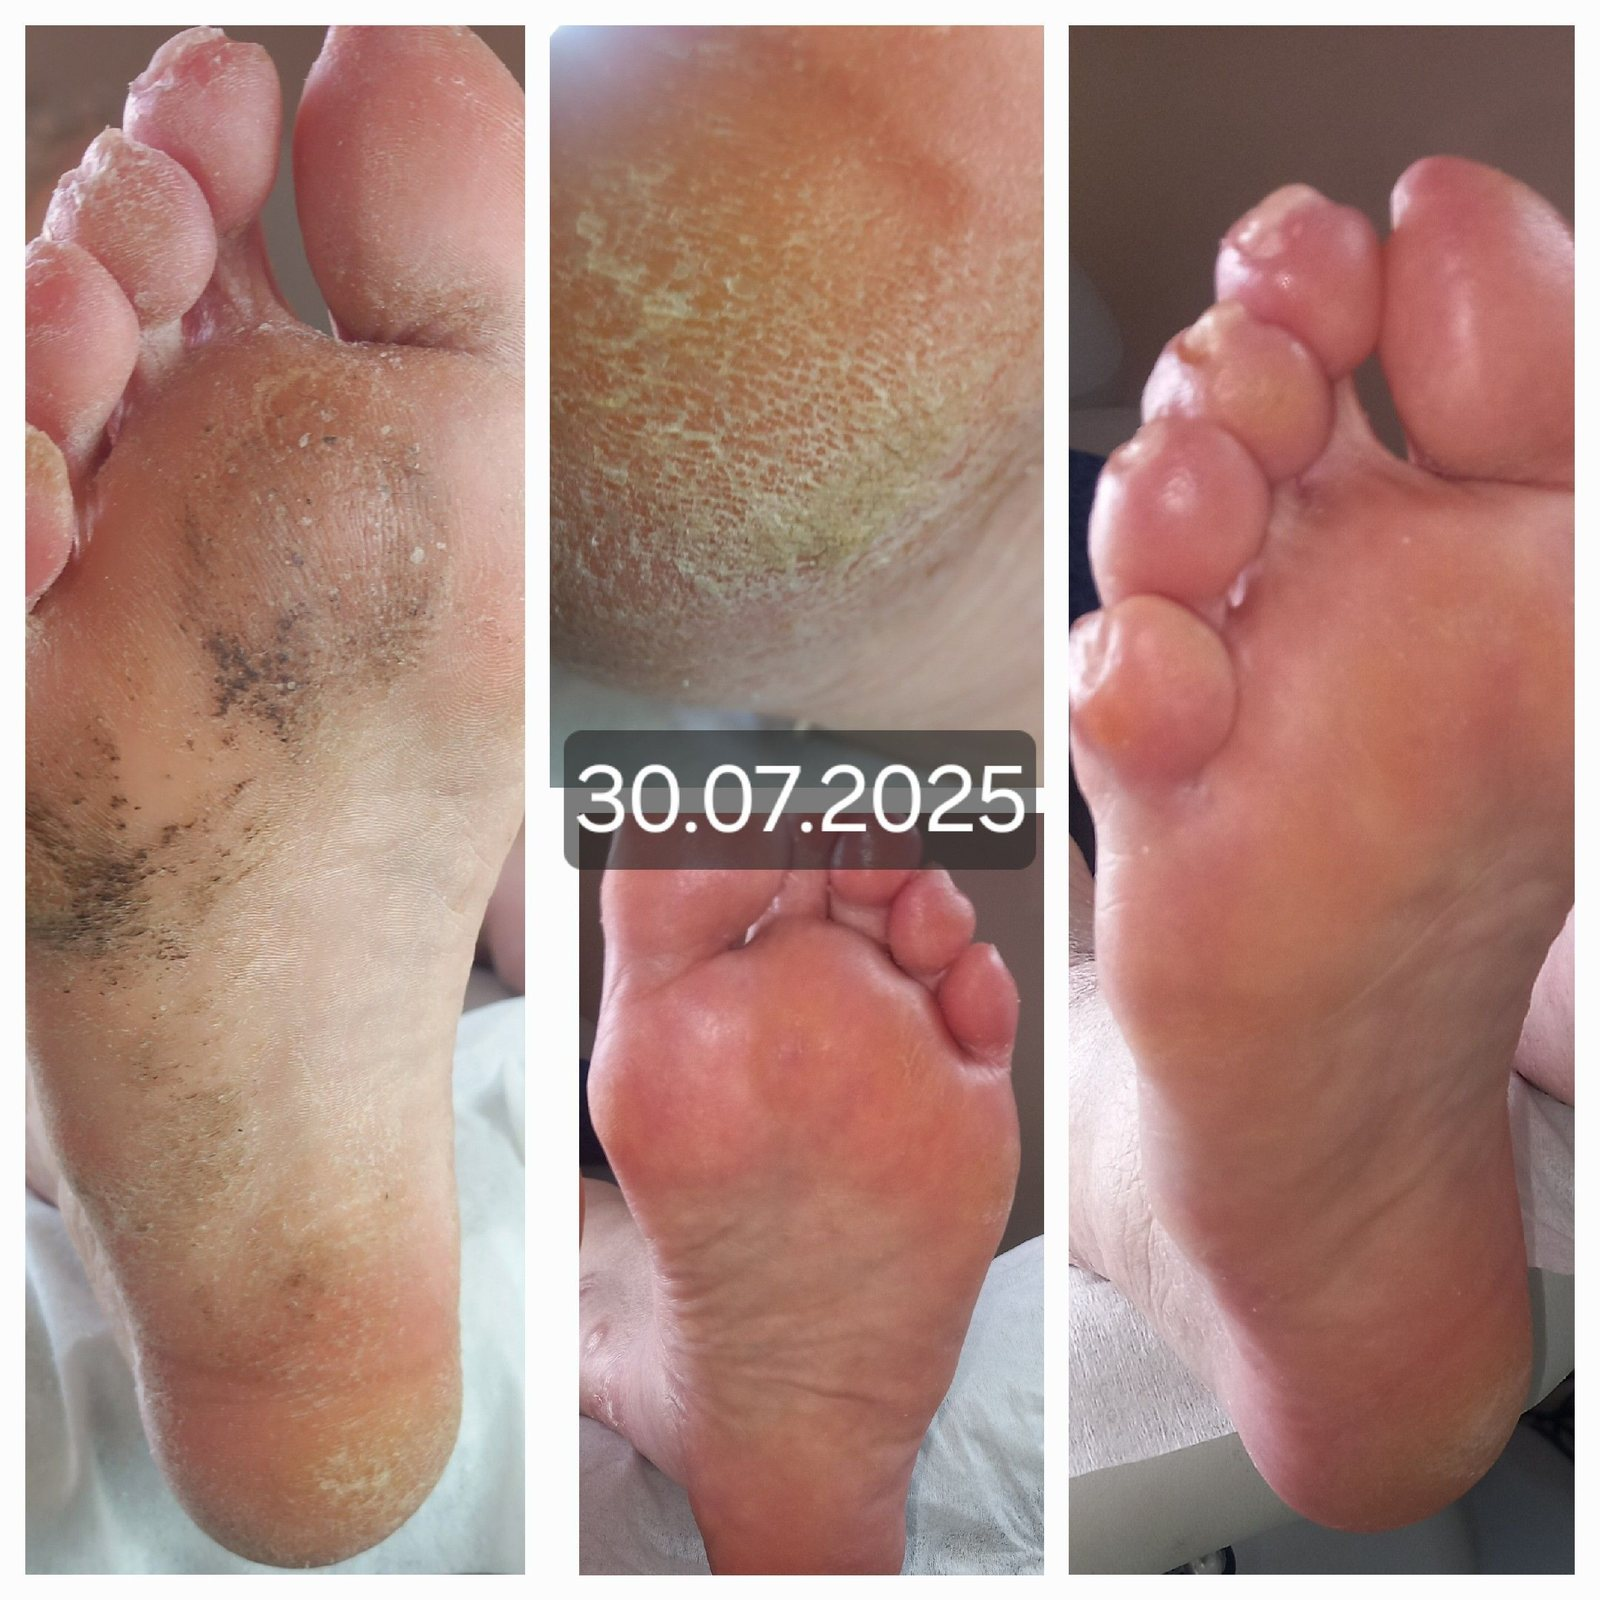
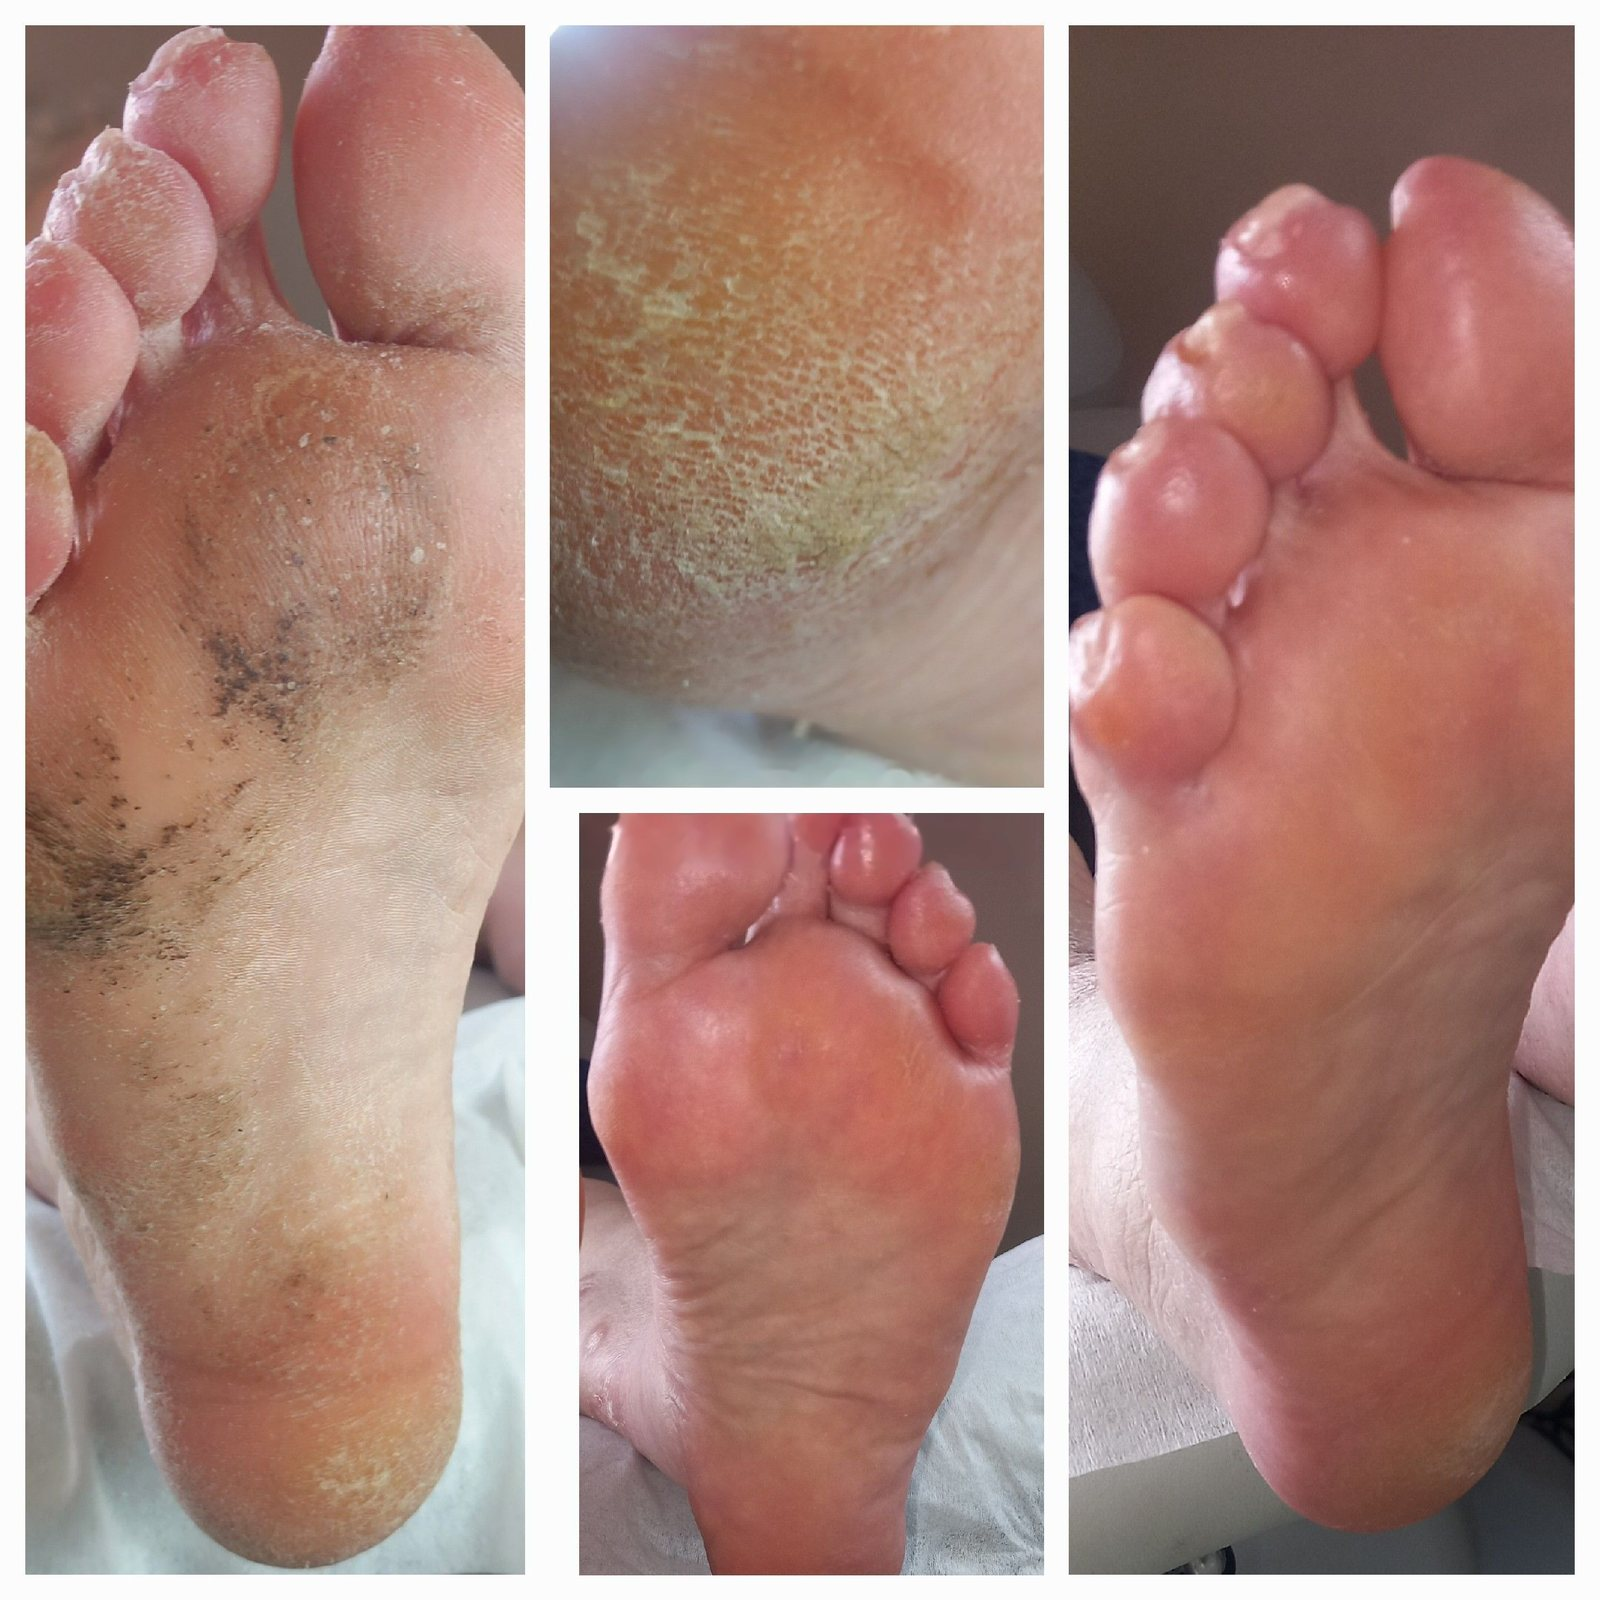
Usunięta data ze zdjęcia, podmienione zdjęcia stóp w galerii

Changed region(s): [[0.3438, 0.4375, 0.6562, 0.5625]]

diff --git a/index.html b/index.html
@@ -756,12 +756,12 @@ main{min-height:70vh}
       ["img/stopy_02.jpg","Pedicure z ciemną hybrydą"],
       ["img/stopy_03.jpg","Pedicure w ciemnym kolorze"],
       ["img/stopy_04.jpg","Paznokcie stóp po zabiegu podologicznym"],
-      ["img/stopy_05.jpg","Rekonstrukcja płytki żelem u stóp"],
+      ["img/stopy_05.jpg","Pedicure z brokatową hybrydą"],
       ["img/stopy_06.jpg","Pedicure w pastelowym kolorze"],
       ["img/stopy_07.jpg","Pedicure z malinową hybrydą"],
       ["img/stopy_08.jpg","Pedicure podologiczno-specjalistyczny"],
       ["img/stopy_09.jpg","Opracowanie paznokci u stóp z hybrydą"],
-      ["img/stopy_10.jpg","Paznokcie stóp po opracowaniu"],
+      ["img/stopy_10.jpg","Pedicure z hybrydą w stylu french"],
       ["img/stopy_11.jpg","Pedicure klasyczny"],
       ["img/stopy_12.jpg","Stopy po zabiegu w gabinecie Y&Y"]
     ],
